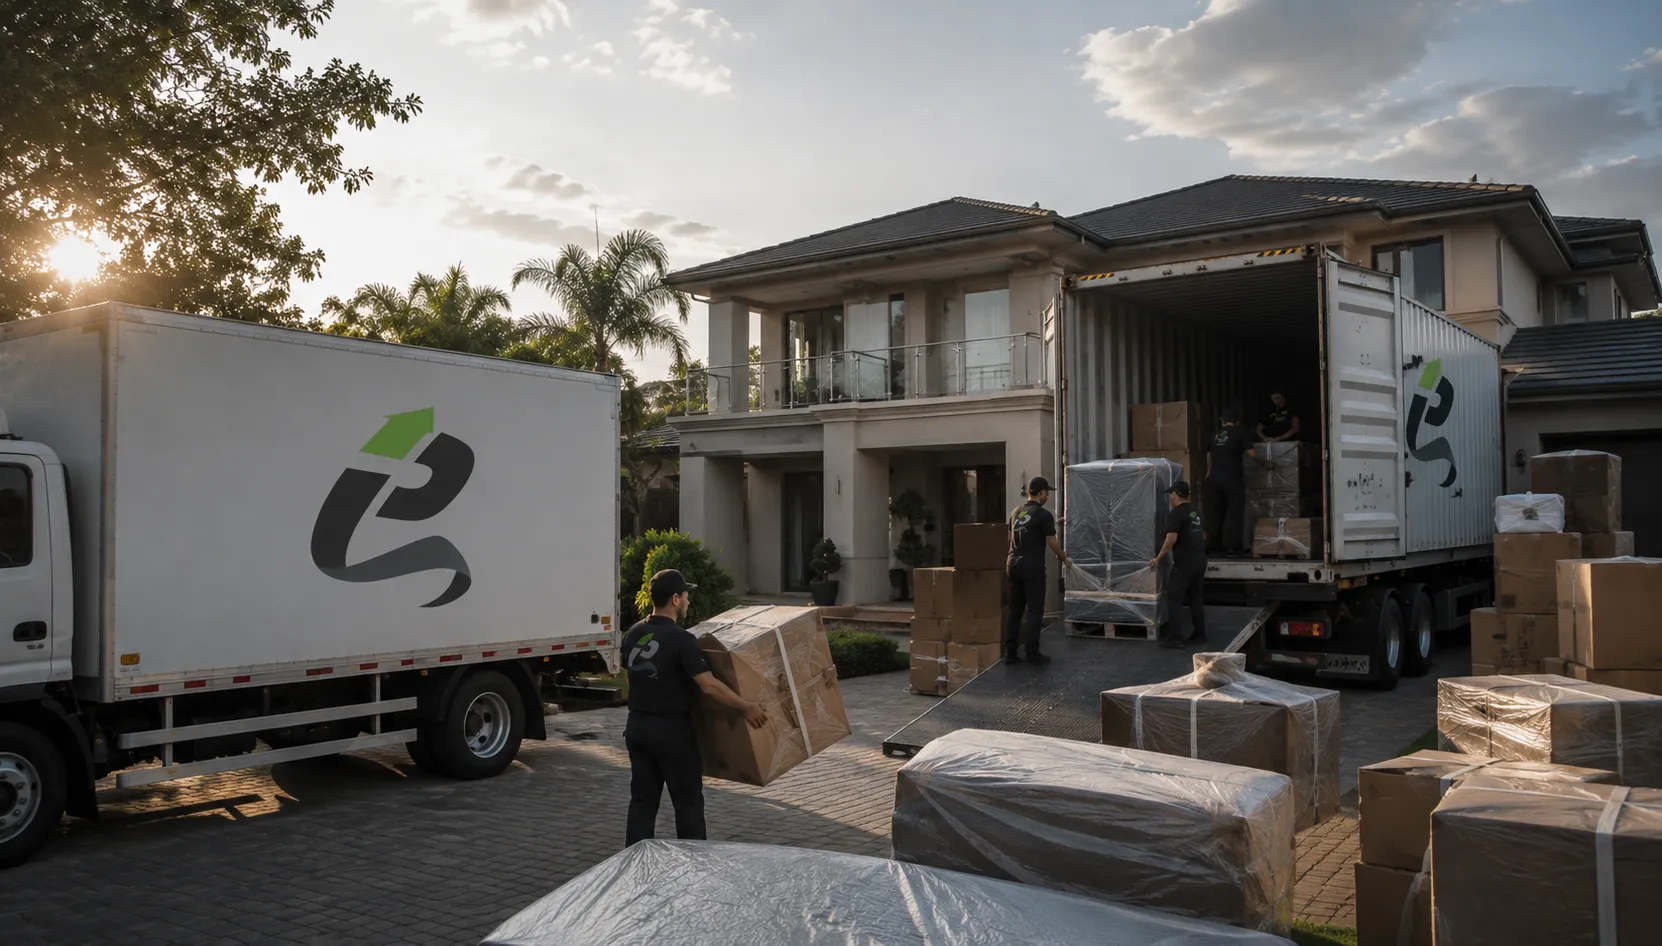
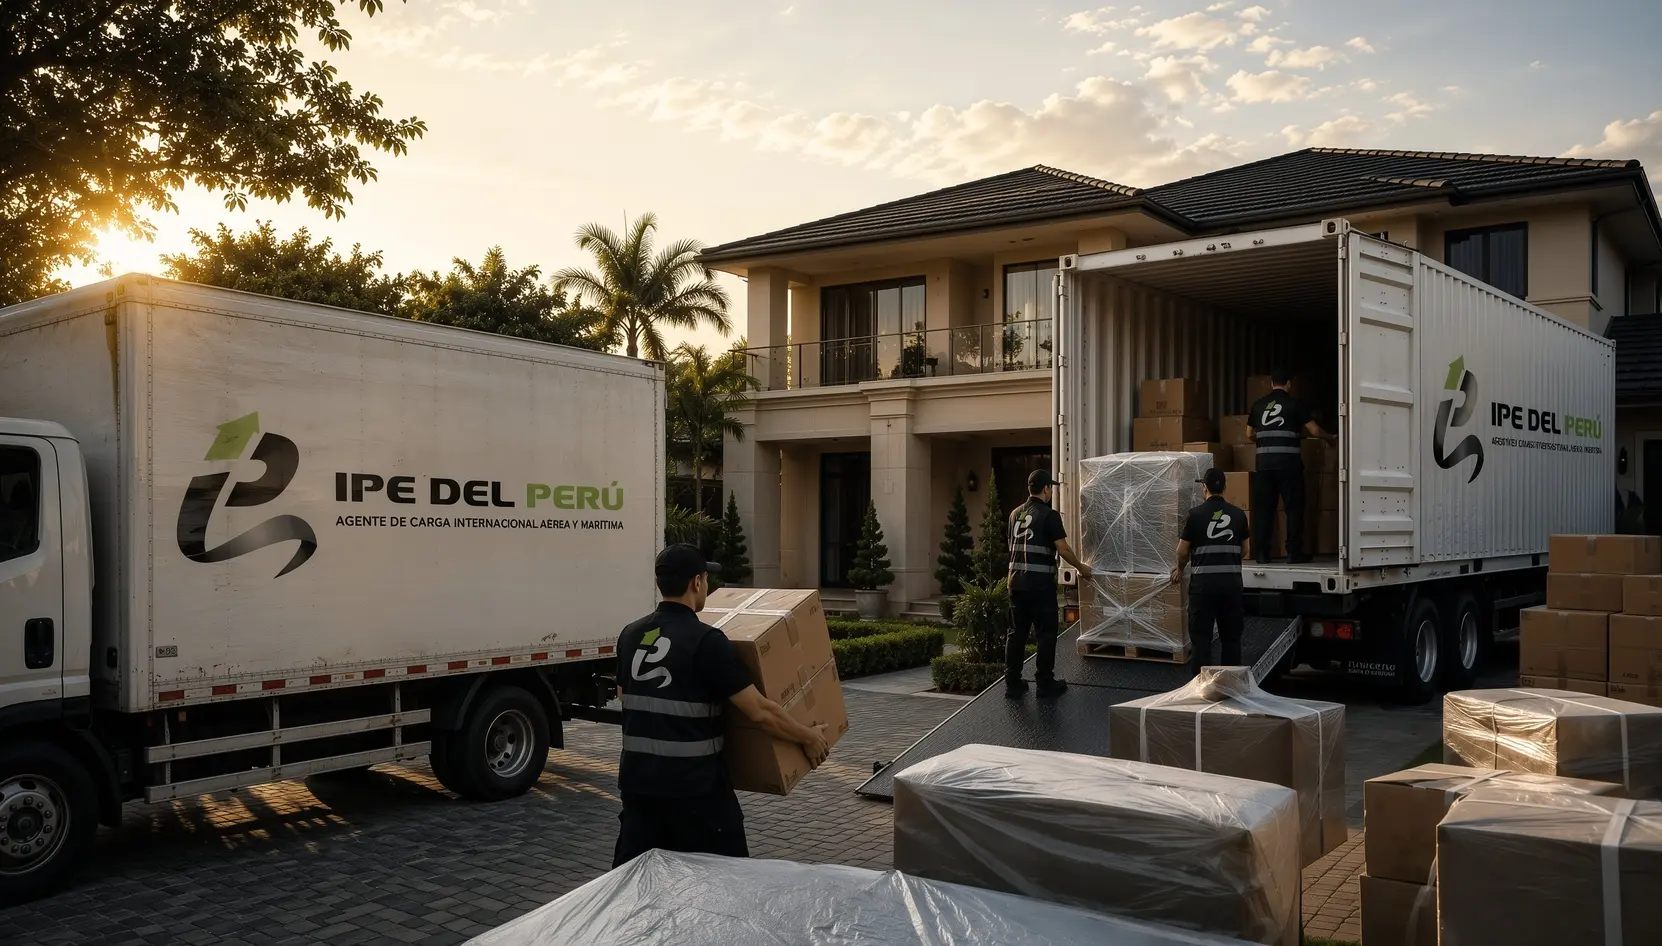
Servicios: nuevas versiones de imagenes (4 servicios, v2)
Cliente reemplazo las imagenes de los 4 servicios:

Agenciamiento de carga:
- /Herocarga.webp -> /Herocarga2.webp (hero)
- /serviciocomprende.webp -> /serviciocomprende2.webp (alcance)

Almacenamiento:
- /almacenamientohero.webp -> /almacenamientohero2.webp (hero)
- /almacenamiento.webp -> /almacenamiento2.webp (alcance)

Especializados:
- /especializacionhero.webp -> /especializacionhero2.webp (hero)
- /especializados.webp -> /especializados2.webp (alcance)

Internacional (mudanzas):
- /mudanzashero.webp (mismo nombre, archivo sobrescrito por el
  cliente — no requiere cambio de referencia)
- /mudanzas.webp -> /mudanzas2.webp (alcance)

diff --git a/app/[locale]/servicios/[slug]/page.tsx b/app/[locale]/servicios/[slug]/page.tsx
@@ -91,7 +91,7 @@ const CONTENT: Record<Slug, ServiceContent> = {
     hero_image_hint_es: "Carga aérea / contenedores marítimos — vista institucional",
     hero_image_hint_en: "Air cargo / maritime containers — institutional view",
     hero_image_path: "/services/agenciamiento-hero.jpg",
-    hero_background: "/Herocarga.webp",
+    hero_background: "/Herocarga2.webp",
     intro_es: [
       "Brindamos asesoría especializada para optimizar sus costos y seleccionar el medio adecuado de transporte para su carga.",
       "Ofrecemos un control efectivo e información actualizada de su carga, a través de nuestras alianzas y red de agentes especializados a nivel mundial.",
@@ -142,7 +142,7 @@ const CONTENT: Record<Slug, ServiceContent> = {
     side_image_hint_es: "Operación logística (carga aérea o marítima)",
     side_image_hint_en: "Logistics operation (air or sea cargo)",
     side_image_path: "/services/agenciamiento-side.jpg",
-    side_image_real: "/serviciocomprende.webp",
+    side_image_real: "/serviciocomprende2.webp",
     highlights_title_es: "Por qué IPE del Perú",
     highlights_title_en: "Why IPE del Perú",
     highlights: [
@@ -212,7 +212,7 @@ const CONTENT: Record<Slug, ServiceContent> = {
     hero_image_hint_es: "Almacén / racks / contenedores en bodega",
     hero_image_hint_en: "Warehouse / racks / containers indoors",
     hero_image_path: "/services/almacenamiento-hero.jpg",
-    hero_background: "/almacenamientohero.webp",
+    hero_background: "/almacenamientohero2.webp",
     intro_es: [
       "IPE del Perú SAC está en la capacidad de desarrollar y ejecutar el servicio de almacenamiento prestando un servicio impecable.",
       "Empleamos un sistema de seguimiento donde usted estará informado de manera permanente desde el primer contacto con el proveedor en origen hasta la llegada de la mercancía y los almacenamientos en general.",
@@ -253,7 +253,7 @@ const CONTENT: Record<Slug, ServiceContent> = {
     side_image_hint_es: "Vista interna del almacén — IPEDEL",
     side_image_hint_en: "Interior warehouse view — IPEDEL",
     side_image_path: "/services/almacenamiento-side.jpg",
-    side_image_real: "/almacenamiento.webp",
+    side_image_real: "/almacenamiento2.webp",
     highlights_title_es: "Beneficios",
     highlights_title_en: "Benefits",
     highlights: [
@@ -323,7 +323,7 @@ const CONTENT: Record<Slug, ServiceContent> = {
     hero_image_hint_es: "Desaduanaje / SUNAT / cargas especializadas",
     hero_image_hint_en: "Customs clearance / specialized cargo",
     hero_image_path: "/services/especializados-hero.jpg",
-    hero_background: "/especializacionhero.webp",
+    hero_background: "/especializacionhero2.webp",
     intro_es: [
       "IPE del Perú SAC está en la capacidad de desarrollar y ejecutar el conjunto de acciones necesarias para prestar un servicio impecable.",
       "Siendo representantes de grandes transnacionales japonesas en Perú, contamos con gran experiencia en consolidaciones aéreas de los distintos lugares del mundo.",
@@ -366,7 +366,7 @@ const CONTENT: Record<Slug, ServiceContent> = {
     side_image_hint_es: "Operador logístico — desaduanaje en SUNAT",
     side_image_hint_en: "Logistics operator — SUNAT customs clearance",
     side_image_path: "/services/especializados-side.jpg",
-    side_image_real: "/especializados.webp",
+    side_image_real: "/especializados2.webp",
     highlights_title_es: "Diferenciadores",
     highlights_title_en: "Differentiators",
     highlights: [
@@ -469,7 +469,7 @@ const CONTENT: Record<Slug, ServiceContent> = {
     side_image_hint_es: "Mudanza — embalaje profesional / contenedor",
     side_image_hint_en: "Moving — professional packing / container",
     side_image_path: "/services/internacional-side.jpg",
-    side_image_real: "/mudanzas.webp",
+    side_image_real: "/mudanzas2.webp",
     highlights_title_es: "Lo que aseguramos",
     highlights_title_en: "What we guarantee",
     highlights: [
